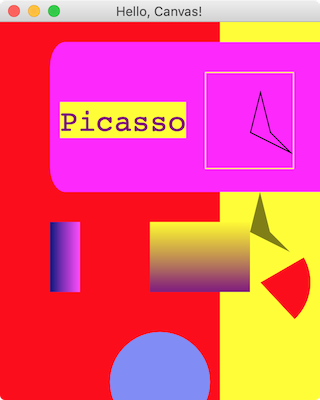
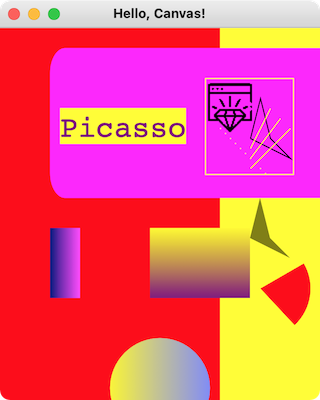
Fixed tree multi selection issue & added hello canvas moved shapes screenshot

diff --git a/lib/glimmer/data_binding/widget_binding.rb b/lib/glimmer/data_binding/widget_binding.rb
@@ -52,7 +52,10 @@ module Glimmer
             unregister_all_observables
             return
           end
-          @widget.set_attribute(@property, value) unless evaluate_property == value
+          # need the rescue false for a scenario with tree items not being equal to model objects raising an exception
+          unless ((value == evaluate_property) rescue false) # need the rescue false for a scenario with tree items not being equal to model objects raising an exception
+            @widget.set_attribute(@property, value)
+          end
         end
       end
       

diff --git a/lib/glimmer/swt/widget_proxy.rb b/lib/glimmer/swt/widget_proxy.rb
@@ -327,6 +327,8 @@ module Glimmer
         end
       end
 
+      # these work in tandem with the property_type_converters
+      # sometimes, they are specified in subclasses instead
       def widget_property_listener_installers
         @swt_widget_property_listener_installers ||= {
           Java::OrgEclipseSwtWidgets::Control => {

diff --git a/README.md b/README.md
@@ -404,6 +404,8 @@ Glimmer configuration may be done via the `Glimmer::Config` module.
 
 ## Samples
 
+See a listing of Glimmer DSL for SWT samples over here, including screenshots and explanations of what each sample demonstrates:
+
 [docs/reference/GLIMMER_SAMPLES.md](docs/reference/GLIMMER_SAMPLES.md)
 
 Check the [samples](samples) directory in [glimmer-dsl-swt](https://github.com/AndyObtiva/glimmer-dsl-swt) for examples on how to write Glimmer applications. To run a sample, make sure to install the `glimmer-dsl-swt` gem first and then use the `glimmer samples` command to run it (alternatively, you may clone the repo, follow [CONTRIBUTING.md](CONTRIBUTING.md) instructions, and run samples locally with development glimmer command: `bin/glimmer`).

diff --git a/docs/reference/GLIMMER_SAMPLES.md b/docs/reference/GLIMMER_SAMPLES.md
@@ -562,6 +562,10 @@ Hello, Canvas!
 
 ![Hello Canvas](/images/glimmer-hello-canvas.png)
 
+Hello, Canvas! with Moved Shapes (via Drag'n'Drop)
+
+![Hello Canvas Moved Shapes](/images/glimmer-hello-canvas-moved-shapes.png)
+
 #### Hello, Canvas Animation!
 
 This sample demonstrates the use of the `canvas` widget and [Animation DSL](#canvas-animation-dsl) in Glimmer.

diff --git a/CHANGELOG.md b/CHANGELOG.md
@@ -1,5 +1,9 @@
 # Change Log
 
+### 4.18.5.1
+
+- Fixed issue with tree multi selection throwing an exception
+
 ### 4.18.5.0
 
 - Automatic `sync_exec` usage from threads other than the GUI thread, thus absolving software engineers from the need to use `sync_exec` explicitly anymore.
